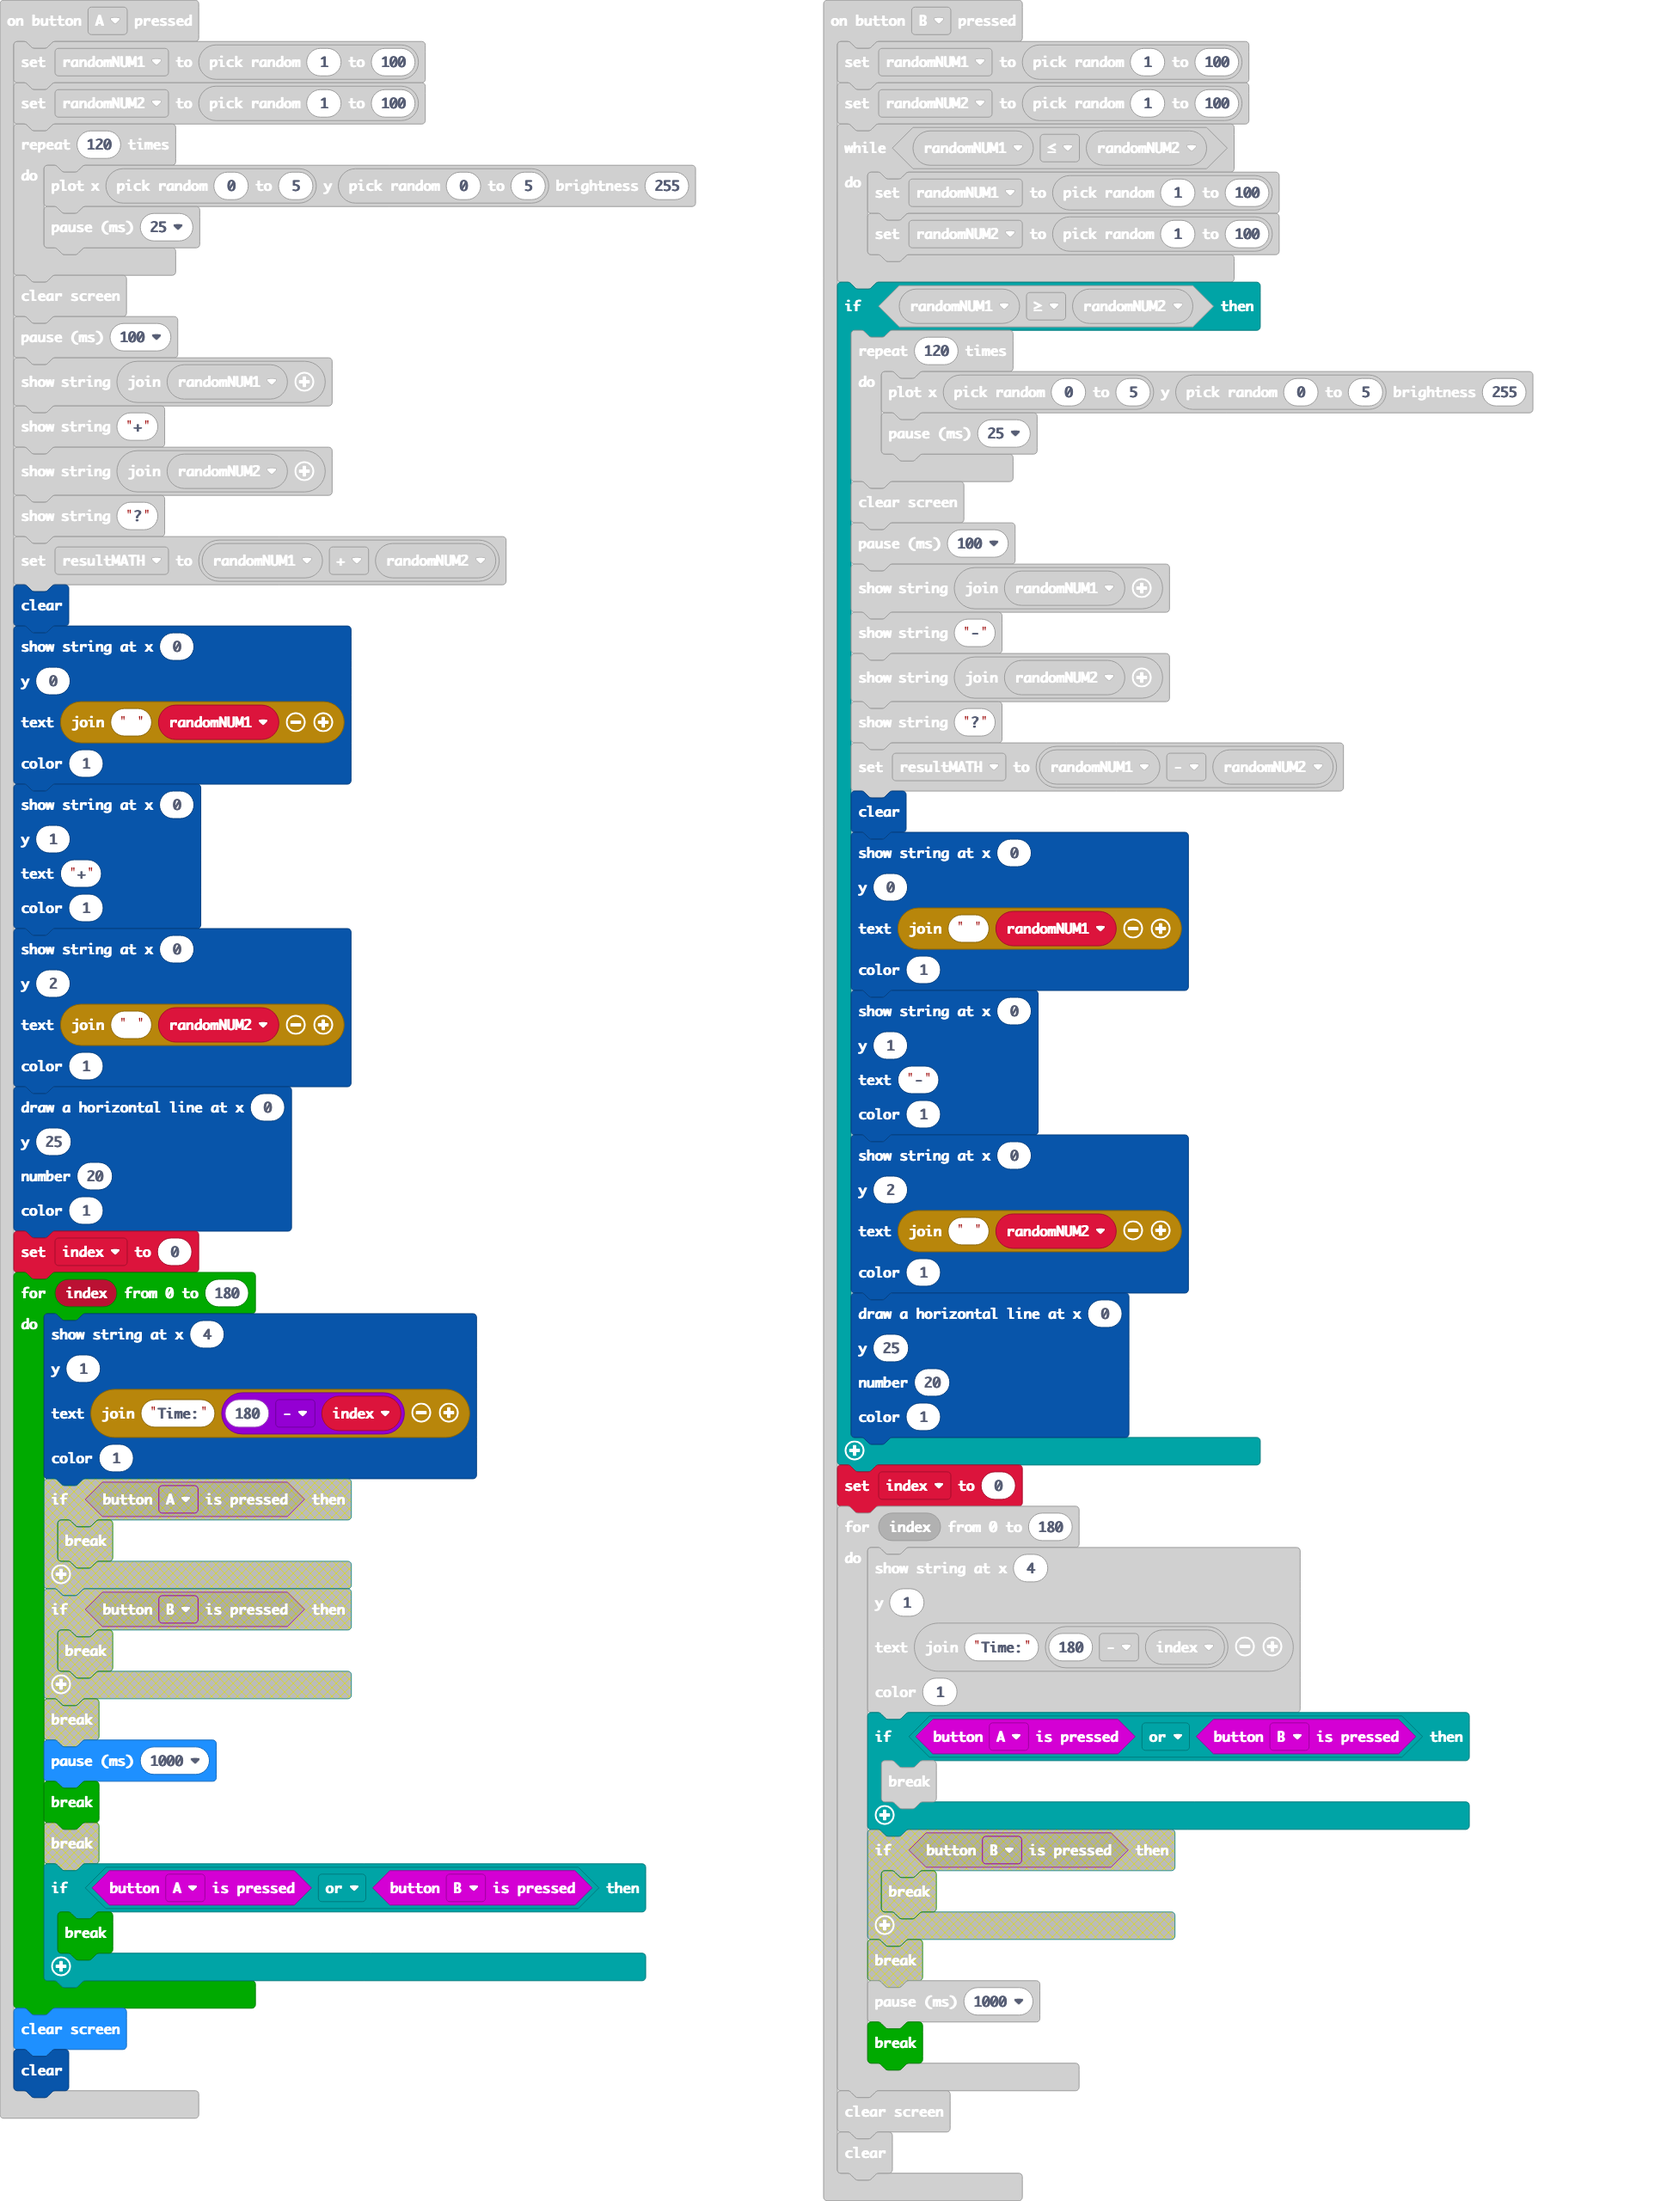
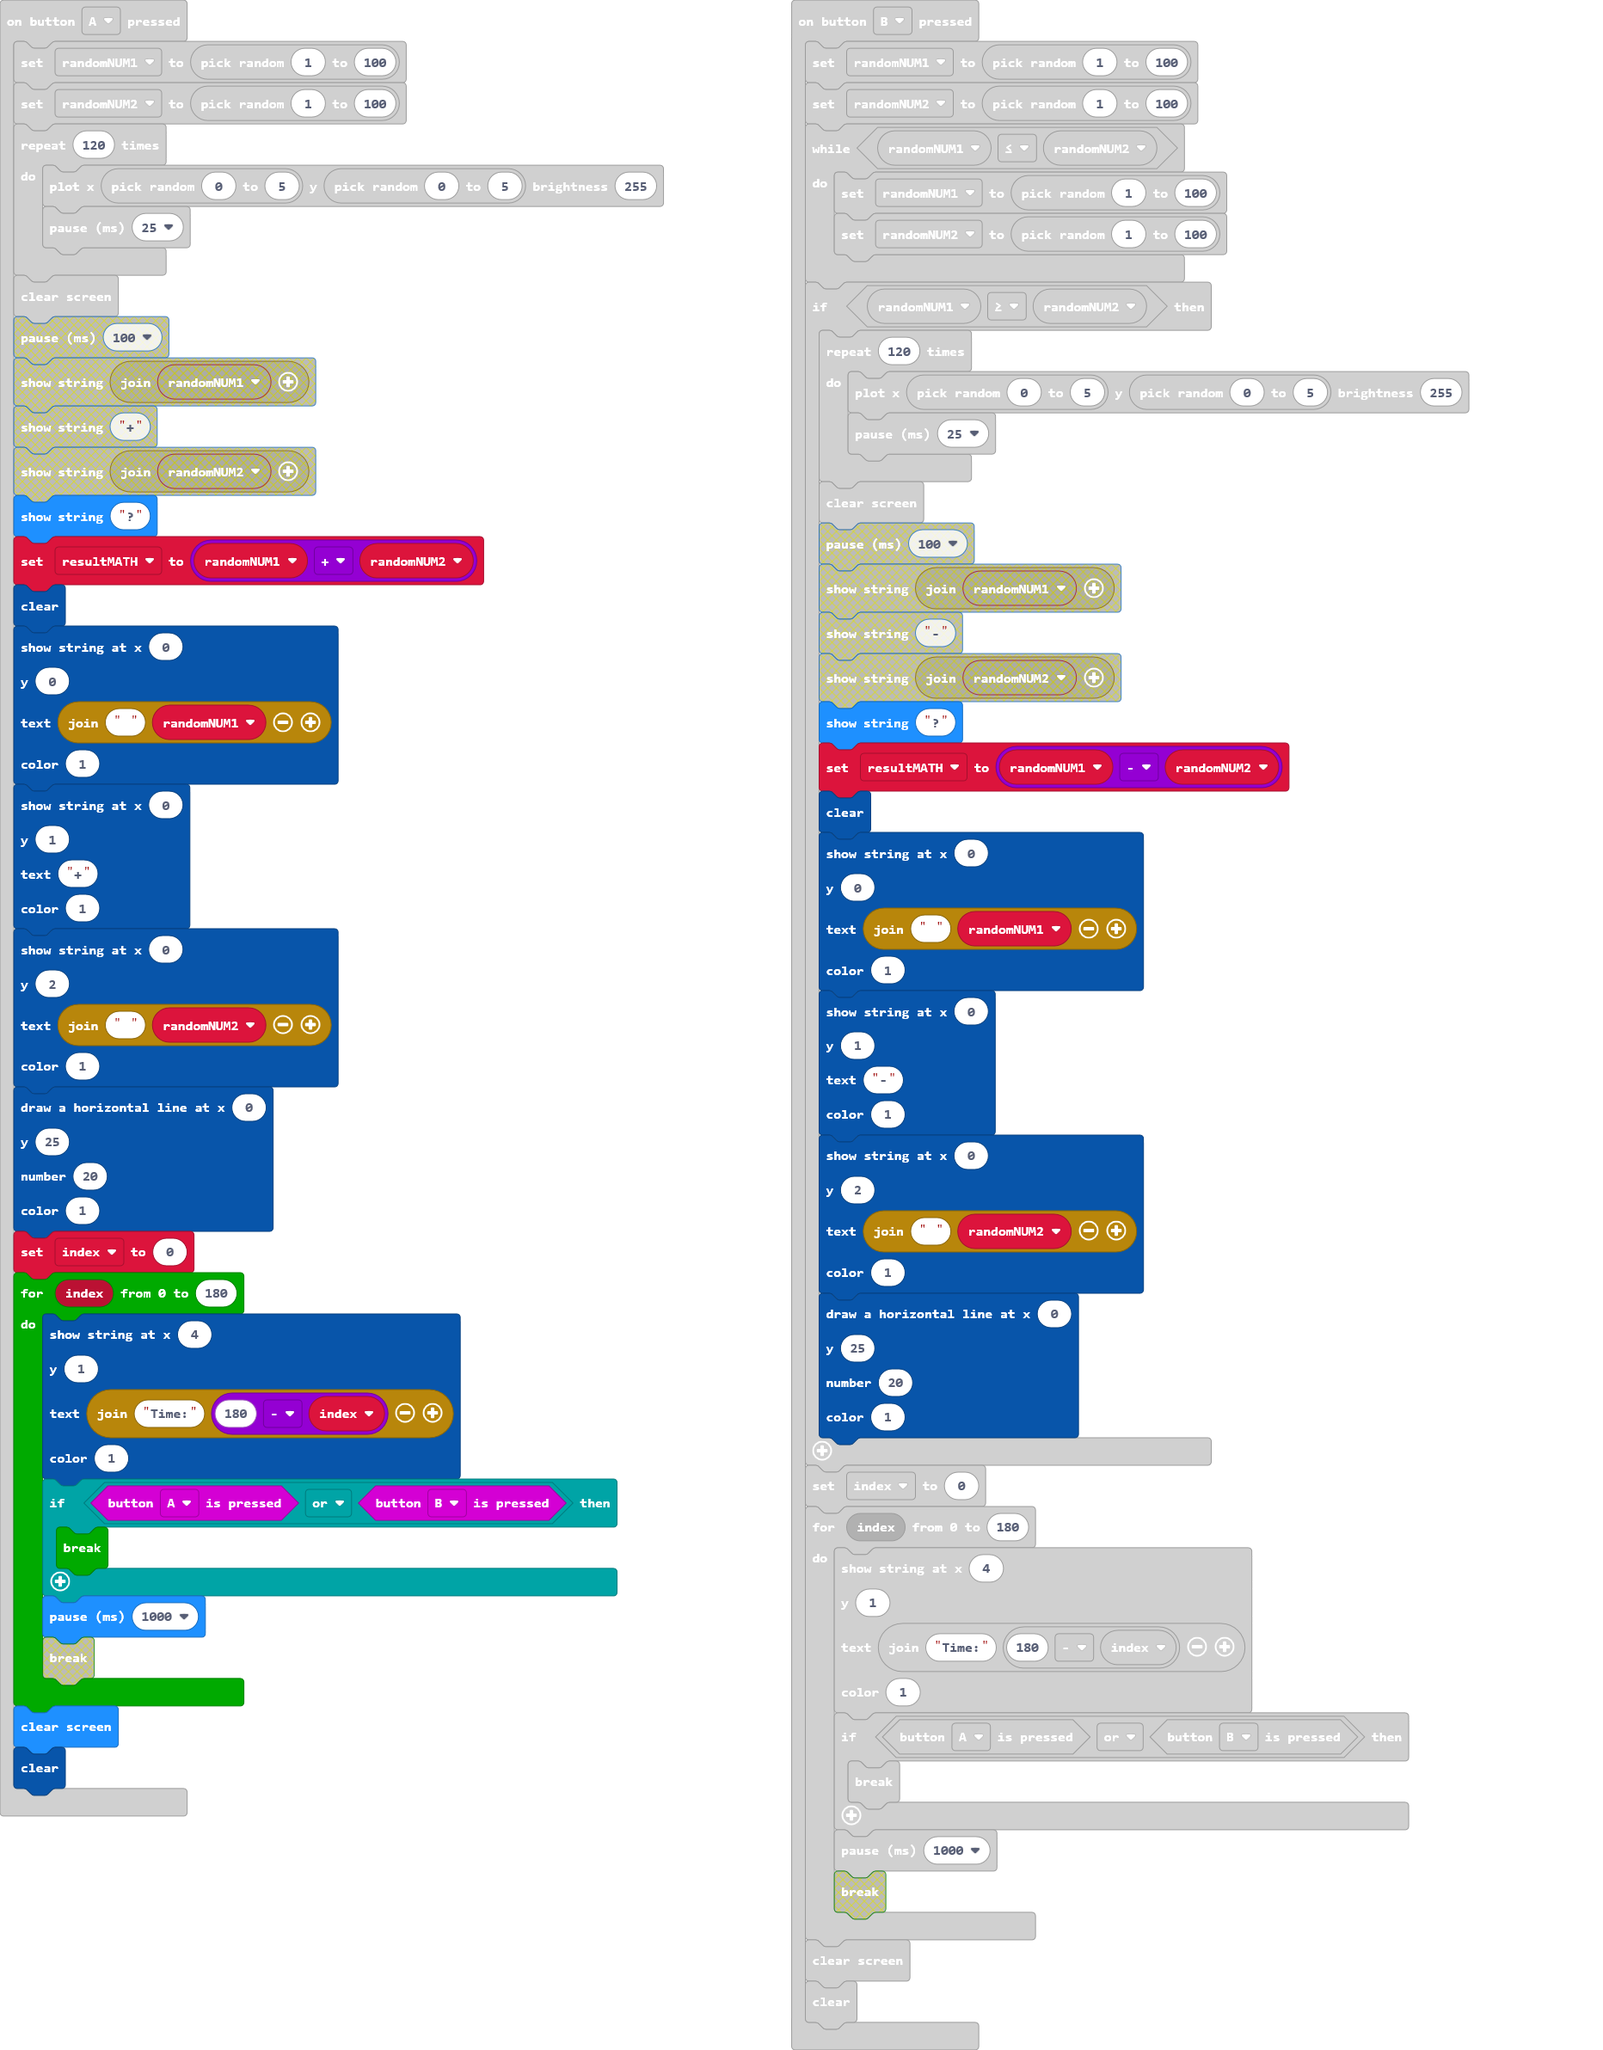
Update main.blocks, main.ts

Changed region(s): [[0.4979, 0.0, 0.9335, 0.9933], [0.0, 0.0, 0.4356, 0.9622]]

diff --git a/main.ts b/main.ts
@@ -65,10 +65,6 @@ input.onButtonPressed(Button.A, function () {
         basic.pause(25)
     }
     basic.clearScreen()
-    basic.pause(100)
-    basic.showString("" + randomNUM1)
-    basic.showString("+")
-    basic.showString("" + randomNUM2)
     basic.showString("?")
     resultMATH = randomNUM1 + randomNUM2
     OLED12864_I2C.clear()
@@ -108,7 +104,6 @@ input.onButtonPressed(Button.A, function () {
             break;
         }
         basic.pause(1000)
-        break;
     }
     basic.clearScreen()
     OLED12864_I2C.clear()
@@ -126,10 +121,6 @@ input.onButtonPressed(Button.B, function () {
             basic.pause(25)
         }
         basic.clearScreen()
-        basic.pause(100)
-        basic.showString("" + randomNUM1)
-        basic.showString("-")
-        basic.showString("" + randomNUM2)
         basic.showString("?")
         resultMATH = randomNUM1 - randomNUM2
         OLED12864_I2C.clear()
@@ -170,7 +161,6 @@ input.onButtonPressed(Button.B, function () {
             break;
         }
         basic.pause(1000)
-        break;
     }
     basic.clearScreen()
     OLED12864_I2C.clear()
